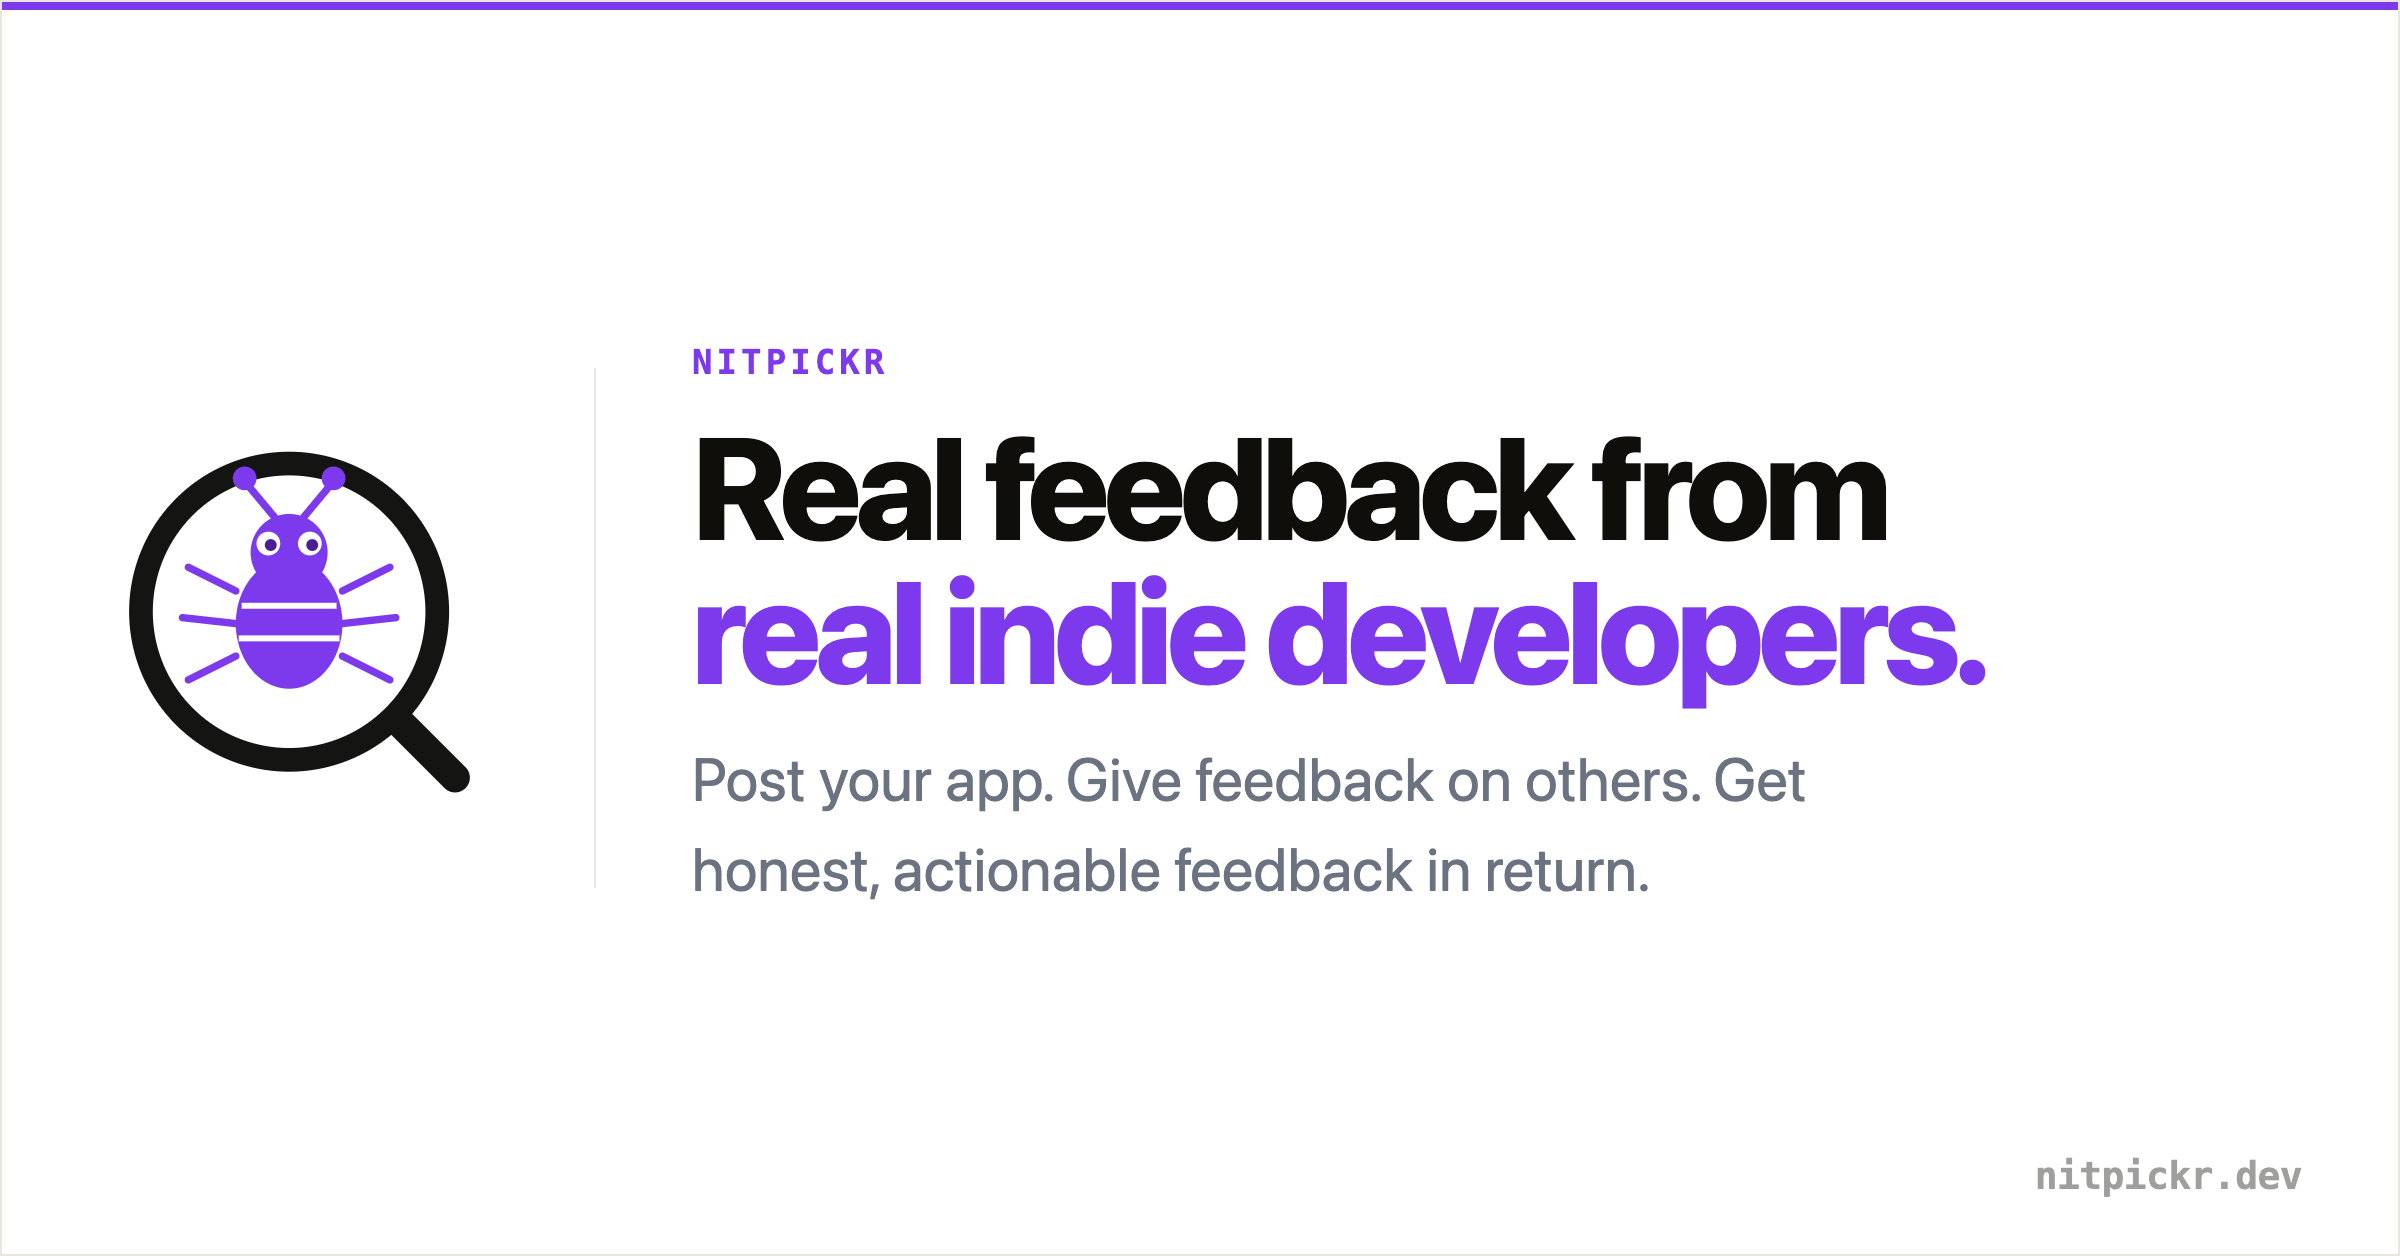
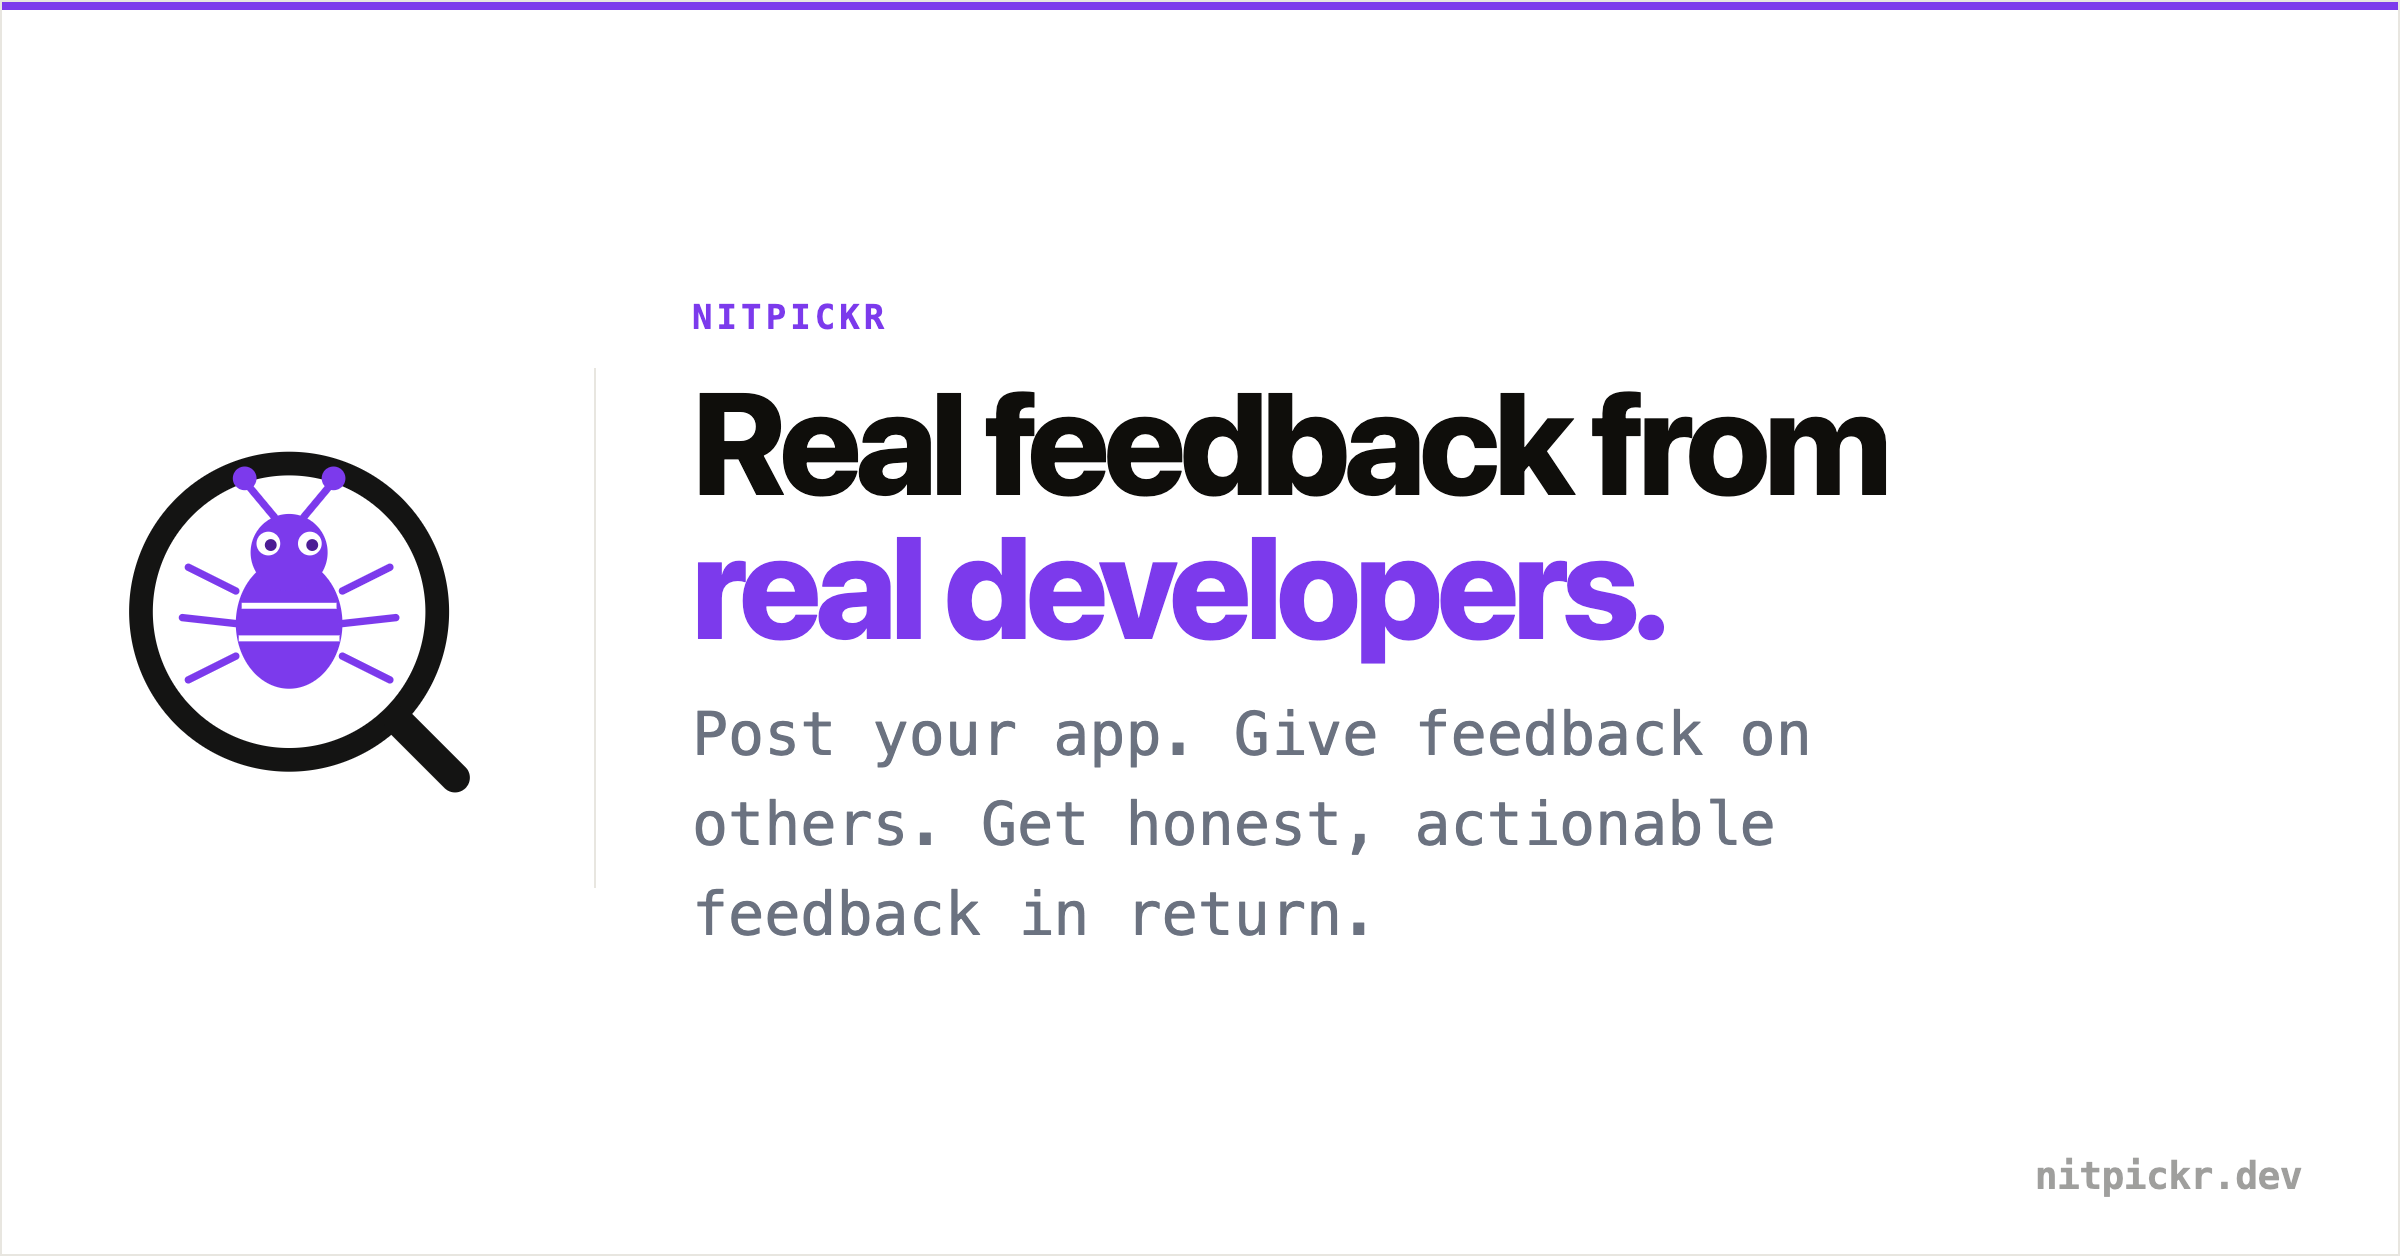
index and twitter card updates

Changed region(s): [[0.2812, 0.2174, 0.8438, 0.7452]]

diff --git a/index.html b/index.html
@@ -8,7 +8,7 @@
     <meta name="twitter:card" content="summary_large_image" />
     <meta name="twitter:image" content="https://nitpickr.dev/twitter-card.png" />
     <meta property="og:image" content="https://nitpickr.dev/twitter-card.png" />
-    <meta property="og:title" content="Real feedback from real indie developers" />
+    <meta property="og:title" content="Real feedback from real developers" />
     <meta property="og:description" content="Post your app. Give feedback on others. Get honest, actionable feedback in return." />
     <!-- Google tag (gtag.js) -->
     <script async src="https://www.googletagmanager.com/gtag/js?id=G-N9H4HKK941"></script>

diff --git a/public/twitter-card.html b/public/twitter-card.html
@@ -94,6 +94,7 @@
       color: #6b7280;
       line-height: 1.5;
       max-width: 640px;
+      font-family: ui-monospace, Consolas, monospace;
     }
 
     .brand {
@@ -140,7 +141,7 @@
 
     <div class="text">
       <span class="eyebrow">nitpickr</span>
-      <h1>Real feedback from<br><span>real indie developers.</span></h1>
+      <h1>Real feedback from<br><span>real developers.</span></h1>
       <p>Post your app. Give feedback on others. Get honest, actionable feedback in return.</p>
     </div>
 
